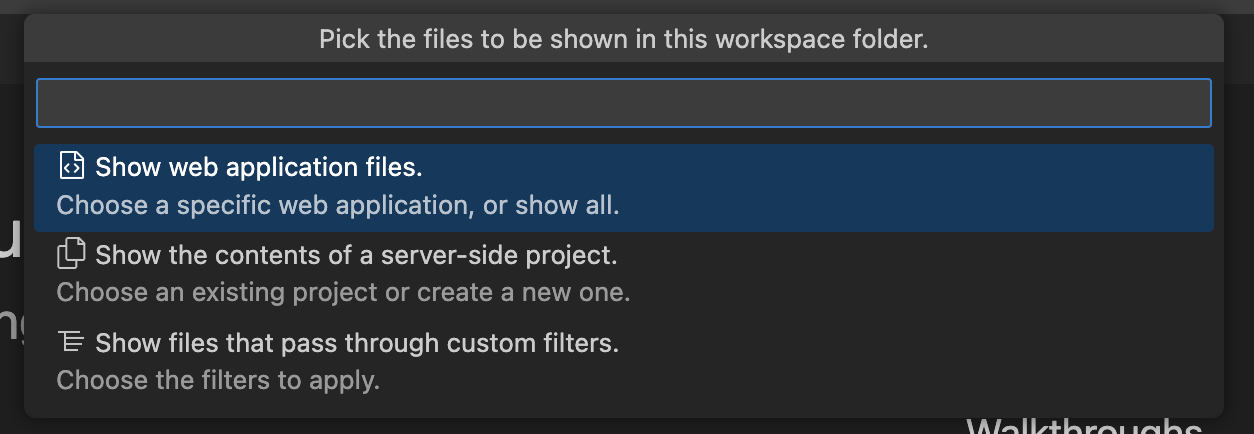
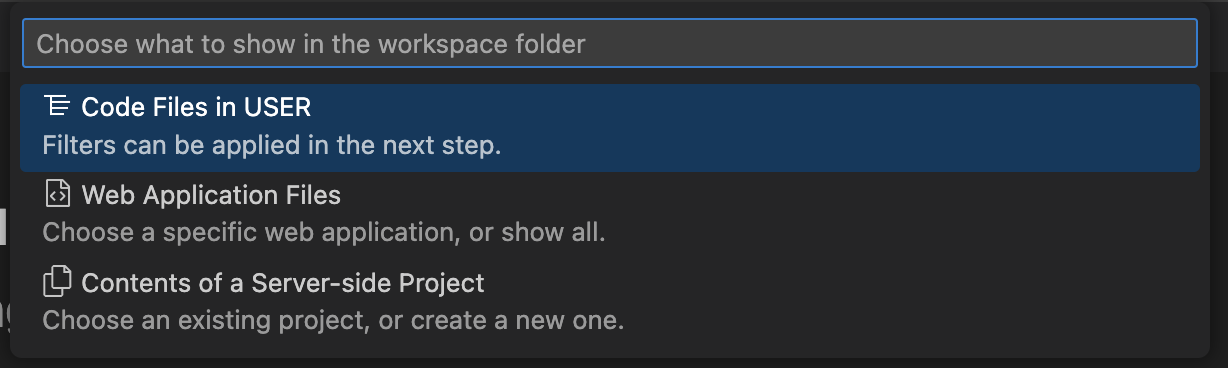
Include John's suggestions

diff --git a/src/commands/addServerNamespaceToWorkspace.ts b/src/commands/addServerNamespaceToWorkspace.ts
@@ -8,7 +8,7 @@ import {
   FILESYSTEM_READONLY_SCHEMA,
   filesystemSchemas,
 } from "../extension";
-import { cspAppsForUri } from "../utils";
+import { cspAppsForUri, outputChannel } from "../utils";
 import { pickProject } from "./project";
 
 /**
@@ -95,7 +95,7 @@ export async function addServerNamespaceToWorkspace(): Promise<void> {
         detail: "Documents opened in this folder will be read-only.",
       },
     ],
-    { title: "Choose the type of access", ignoreFocusOut: true }
+    { placeHolder: "Choose the type of access", ignoreFocusOut: true }
   );
   if (!mode) {
     return;
@@ -154,11 +154,16 @@ async function modifyWsFolderUri(uri: vscode.Uri): Promise<vscode.Uri | undefine
     return;
   }
   const oldParams = new URLSearchParams(uri.query);
-  const namespace = new AtelierAPI(uri).ns;
+  const api = new AtelierAPI(uri);
 
   // Prompt the user for the files to show
   const filterType = await vscode.window.showQuickPick(
     [
+      {
+        label: `$(list-tree) Code Files in ${api.ns}`,
+        detail: "Filters can be applied in the next step.",
+        value: "other",
+      },
       {
         label: "$(file-code) Web Application Files",
         detail: "Choose a specific web application, or show all.",
@@ -168,11 +173,6 @@ async function modifyWsFolderUri(uri: vscode.Uri): Promise<vscode.Uri | undefine
         label: "$(files) Contents of a Server-side Project",
         detail: "Choose an existing project, or create a new one.",
         value: "project",
-      },
-      {
-        label: `$(list-tree) Code Files in ${namespace}`,
-        detail: "Filters can be applied in the next step.",
-        value: "other",
       },
     ],
     {
@@ -188,10 +188,33 @@ async function modifyWsFolderUri(uri: vscode.Uri): Promise<vscode.Uri | undefine
   let newPath = "/";
   if (filterType.value == "csp") {
     // Prompt for a specific web app
-    const cspApps = cspAppsForUri(uri);
+    let cspApps = cspAppsForUri(uri);
     if (cspApps.length == 0) {
-      vscode.window.showWarningMessage(`No web applications are configured to use namespace ${namespace}.`, "Dismiss");
-      return;
+      // Attempt to fetch from the server
+      cspApps = await api
+        .getCSPApps()
+        .then((data) => data.result.content ?? [])
+        .catch((error) => {
+          if (error && error.errorText && error.errorText !== "") {
+            outputChannel.appendLine(error.errorText);
+          } else {
+            outputChannel.appendLine(
+              typeof error == "string" ? error : error instanceof Error ? error.message : JSON.stringify(error)
+            );
+          }
+          vscode.window.showErrorMessage(
+            "Failed to fetch web application list. Check 'ObjectScript' output channel for details.",
+            "Dismiss"
+          );
+          return;
+        });
+      if (cspApps == undefined) {
+        // Catch handler reported the error already
+        return;
+      } else if (cspApps.length == 0) {
+        vscode.window.showWarningMessage(`No web applications are configured to use namespace ${api.ns}.`, "Dismiss");
+        return;
+      }
     }
     newPath =
       (await vscode.window.showQuickPick(cspApps, {
@@ -211,24 +234,28 @@ async function modifyWsFolderUri(uri: vscode.Uri): Promise<vscode.Uri | undefine
     const otherParams = await vscode.window.showQuickPick(
       [
         {
-          label: "$(filter) filter",
+          label: "$(filter) Filter",
           detail: "Comma-delimited list of search options, e.g. '*.cls,*.inc,*.mac,*.int'",
           picked: oldParams.has("filter"),
+          value: "filter",
         },
         {
-          label: "$(list-flat) flat",
+          label: "$(list-flat) Flat Files",
           detail: "Show a flat list of files. Do not treat packages as folders.",
           picked: oldParams.has("flat"),
+          value: "flat",
         },
         {
-          label: "$(server-process) generated",
+          label: "$(server-process) Show Generated",
           detail: "Also show files tagged as generated, e.g. by compilation.",
           picked: oldParams.has("generated"),
+          value: "generated",
         },
         {
-          label: "$(references) mapped",
-          detail: `Hide files that are mapped into ${namespace} from another code database.`,
+          label: "$(references) Hide Mapped",
+          detail: `Hide files that are mapped into ${api.ns} from another code database.`,
           picked: oldParams.has("mapped"),
+          value: "mapped",
         },
       ],
       {
@@ -243,8 +270,7 @@ async function modifyWsFolderUri(uri: vscode.Uri): Promise<vscode.Uri | undefine
     // Build the new query parameter string
     const newParamsObj = new URLSearchParams();
     for (const otherParam of otherParams) {
-      const otherParamName = otherParam.label.split(" ")[1];
-      switch (otherParamName) {
+      switch (otherParam.value) {
         case "filter": {
           // Prompt for filter
           const filter = await vscode.window.showInputBox({
@@ -253,19 +279,19 @@ async function modifyWsFolderUri(uri: vscode.Uri): Promise<vscode.Uri | undefine
             value: oldParams.get("filter"),
             placeHolder: "*.cls,*.inc,*.mac,*.int",
             prompt:
-              "Patterns are comma-delimited and may contain both * (any number of characters) and ? (a single character) as wildcards. To exclude items, prefix the pattern with a single quote.",
+              "Patterns are comma-delimited and may contain both * (zero or more characters) and ? (a single character) as wildcards. To exclude items, prefix the pattern with a single quote.",
           });
           if (filter && filter.length) {
-            newParamsObj.set(otherParamName, filter);
+            newParamsObj.set(otherParam.value, filter);
           }
           break;
         }
         case "flat":
         case "generated":
-          newParamsObj.set(otherParamName, "1");
+          newParamsObj.set(otherParam.value, "1");
           break;
         case "mapped":
-          newParamsObj.set(otherParamName, "0");
+          newParamsObj.set(otherParam.value, "0");
       }
     }
     newParams = newParamsObj.toString();
@@ -314,7 +340,7 @@ export async function modifyWsFolder(wsFolderUri?: vscode.Uri): Promise<void> {
   }
   // Prompt for name change
   const newName = await vscode.window.showInputBox({
-    title: "Enter a name for the workspace folder.",
+    title: "Enter a name for the workspace folder",
     ignoreFocusOut: true,
     value: wsFolder.name,
   });
